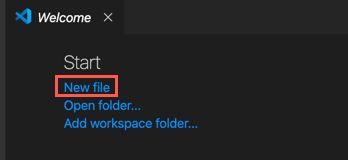
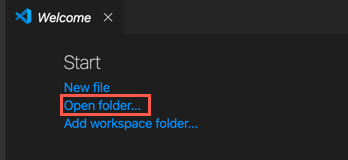
Update Lab2

Changed region(s): [[0.1437, 0.4688, 0.431, 0.75]]

diff --git a/Lab2-CommercialPaper.md b/Lab2-CommercialPaper.md
@@ -25,7 +25,7 @@ These three key steps of issue, buy and redeem are the main transactions in a si
 
 In diagram form it looks like this:
 
-![Commercial Paper Architecture](/Users/jenn/MaristBlockchainHackathon/img/Architecture.png)
+![Commercial Paper Architecture](img/Architecture.png)
 
 ### Steps 
 
@@ -245,7 +245,7 @@ $ docker exec cliMagnetoCorp peer chaincode install -n papercontract -v 0.0.3 -p
 
 This command uses the cliMagnetoCorp container which was configured to send commands to peer0.org1.example.com in our basic network. Its main role is to copy the papercontract source code and send it to the remote peer, ready for it to be instantiated.
 
-![Diagram of basic network.](/Users/jenn/MaristBlockchainHackathon/img/PaperNet.png)
+![Diagram of basic network.](img/PaperNet.png)
 
 7. To instantiate the contract on peer0, issue the following command:
 
@@ -308,7 +308,7 @@ Next let’s take a look at the issue application.
 
      `cat -n issue.js`
 
-    
+    
 
     The main points are:
 
@@ -334,7 +334,7 @@ Next let’s take a look at the issue application.
 
   As we can see above on line 25, the issue application will need to load Isabella’s identity before it can create the transaction, so we need to make sure her identity is in the wallet that the issue application will use as shown in this diagram:
 
-  ![Giving Isabella permission to create a transaction.](/Users/jenn/MaristBlockchainHackathon/img/papernet_magnetoissue.png)
+  ![Giving Isabella permission to create a transaction.](img/papernet_magnetoissue.png)
 
 
 
@@ -460,7 +460,7 @@ We will now begin working in PaperNet as DigiBank.
 
 Now that we have issued paper 00001, we want to take on the persona of an employee of DigiBank who is going to buy and redeem this paper. If we look at the diagram, we can see how they will interact with the same network:
 
-![DigiBank and MagnetoCorp interacting in a network.](/Users/jenn/MaristBlockchainHackathon/img/papernet_magnetodigi.png)
+![DigiBank and MagnetoCorp interacting in a network.](img/papernet_magnetodigi.png)
 
 ### Steps
 
@@ -571,11 +571,82 @@ Now Balaji from DigiBank would like to buy the commercial paper 00001. However, 
 
    [Download VSCode](https://code.visualstudio.com/download)
 
-2. Open VSCode. From the "Welcome" screen, select **New File**.
+2. To work with the sample code, install Git to your laptop. [Install Git.](https://help.github.com/en/github/getting-started-with-github/set-up-git#setting-up-git)
 
-   ![Select New File.](/Users/jenn/MaristBlockchainHackathon/img/NewFile.png)
+   * Install Git
+   * Setup your username in Git (if you don't have one already)
+   * Set your commit email address in Git (if you don't have one already)
 
-3. 
+3. It's also highly recommended that you install GitHub Desktop. This makes it easy to push changes from your machine to the GitHub repository. [Download and setup GitHub Desktop](https://help.github.com/en/desktop/getting-started-with-github-desktop/installing-github-desktop)
+
+4. In a browser, go to the  [Hyperledger Fabric fabric-samples repository.](https://github.com/hyperledger/fabric-samples)
+
+5. Select branch **release- 1.4** from the drop down menu. This will insure that we are working with the appropriate samples for our version of Hyperledger Fabric.
+
+   ![Select release-1.4 for the branch.](img/release1.4.png)
+
+6. Select **Fork** to copy the repository to your own repository.
+
+   ![Select Fork.](img/fork.png)
+
+7. In your repository in the browser, select **Clone or download** and the **copy** button to get the URL to clone your repository to your laptop.
+![Copy repository URL for cloning.](img/CopyClone.png)
+  
+8. In a terminal on your laptop, navigate to a directory where you would like to clone your repository to. Once you're there, enter the command `git clone https://github.com/xxxxxxxx/fabric-samples.git` where **https://github.com/xxxxxxxx/fabric-samples.git** is what you copied in the prior step.
+
+9. Open VSCode. From the "Welcome" screen, select **Open folder**.
+
+   ![Select New File.](img/NewFile.png)
+
+10. In the file browser dialog, navigate to **.../fabric-samples/commercial-paper/organization/digibank/contract. Select **Add**.
+
+   ![Navigate to the folder and select Add.](img/libworkspace.png)
+
+11. Click **Don't save** on the pop-up prompt about making the folder a workspace.
+
+    ![Click Don't save.](img/dontsave.png)
+
+12. Click on the **papercontract.js** file in the contract folder to open it for editing:
+
+    ![Click on papercontract.js](img/papercontract.png)
+
+13. We are going to create a new transaction called **getPaper**. It is going to be a simple transaction that just returns the paper that was requested as a parameter. We are going to insert it between the existing **instantiate** and **issue** transactions starting on **line 54**.
+
+Note: It is recommended that you copy in the code and paste at line 54 to avoid any typos.
+
+```
+/**
+* Get commercial paper
+* @param {Context} ctx the transaction context
+* @param {String} issuer commercial paper issuer
+* @param {Integer} paperNumber paper number for this issuer
+*/
+async getPaper(ctx, issuer, paperNumber) {
+  try {
+    console.log('getPaper for: ' + issuer + ' ' + paperNumber);
+    let paperKey = CommercialPaper.makeKey([issuer, paperNumber]);
+    let paper = await ctx.paperList.getPaper(paperKey);
+    return paper;
+  } catch(e) {
+    throw new Error('Paper: ' + paperNumber + 'absentfor' + issuer);
+  }
+}
+```
+
+![Paste the getPaper code.](img/pastegetpaper.png)
+
+
+
+14. **Save** your code addition in VSCode. You can use CTRL + S (Windows/Linux), CMD + S (Mac) or go to File -> Save. 
+
+15. In VSCode, click on **package.json**. We will edit the **version number** before pushing our changes to GitHub and installing on the network.
+
+    ![Click on package.json](img/jsonpackage.png)
+
+16. Change **Line 2** to say **papercontract** for the name, if needed, and increment the version to **0.0.4**. **Save** your changes.
+![Increment the version.](img/changeversion.png)
+
+17. 
 
 
 
